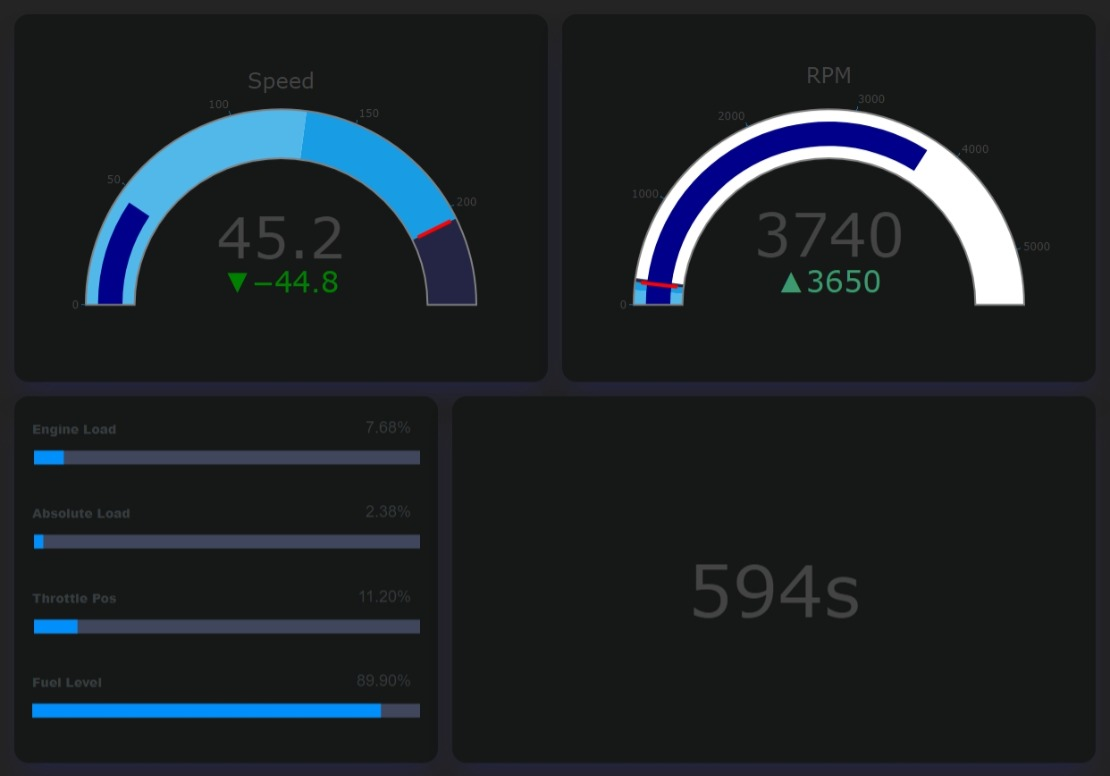
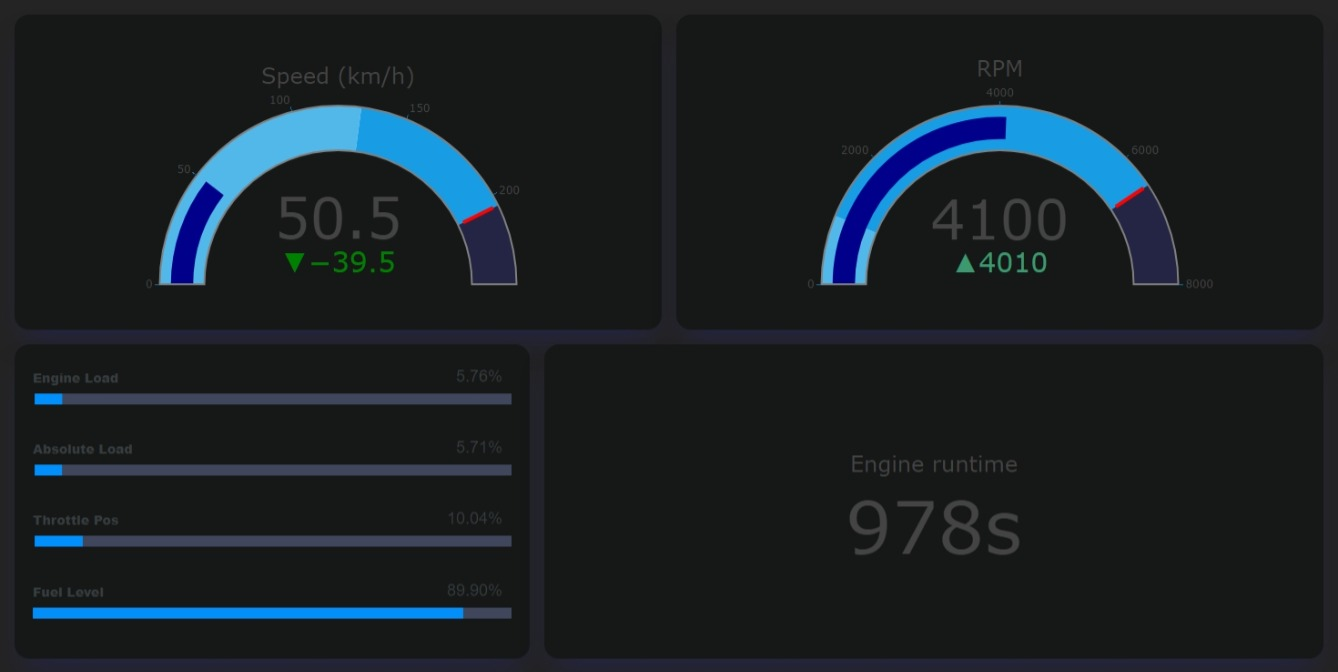
Completed page 3, which displays temperature data. Updated the picture for the readme file and made a few small UI improvements.

diff --git a/app/components/page3.jsx b/app/components/page3.jsx
@@ -5,6 +5,7 @@ import AutoSizer from "react-virtualized-auto-sizer";
 
 import styles from './page3.module.css';
 
+const Plot = dynamic(() => import('react-plotly.js'), { ssr: false });
 const Chart = dynamic(() => import('react-apexcharts'), { ssr: false });
 
 export default function Page3({coolantTemp, intakeTemp, ambientTemp}) {
@@ -70,11 +71,33 @@ export default function Page3({coolantTemp, intakeTemp, ambientTemp}) {
     },
   });
 
-  let coolantTempLineChartLayout = createApexChartLine('Engine Coolant Temperature', coolantTemp);
-  let intakeTempLineChartLayout = createApexChartLine('Intake Air Temp', intakeTemp);
-  let ambientAirTempLineChartLayout = createApexChartLine('Ambient Air Temp', ambientTemp);
+  let coolantTempLineChartLayout = createApexChartLine('Engine Coolant Temperature (°C)', coolantTemp);
+  let intakeTempLineChartLayout = createApexChartLine('Intake Air Temp (°C)', intakeTemp);
+  let ambientAirTempLineChartLayout = createApexChartLine('Ambient Air Temp (°C)', ambientTemp);
 
   let listOfChart = [coolantTempLineChartLayout, intakeTempLineChartLayout, ambientAirTempLineChartLayout];
+
+  const createPlotlyIndicatorData = (data) => ([{
+    type: "indicator",
+    mode: "number",
+    value: data,
+ 
+    number: {font: {size:50}, suffix: "°C" },
+    domain: { x: [0, 1], y: [0, 1] }
+  }]);
+
+  let plotlyChartLayout = (height, width) => ({ 
+    width: width, 
+    height: height,
+    paper_bgcolor:'rgba(0,0,0,0)',
+    plot_bgcolor:'rgba(0,0,0,0)'
+  });
+    
+  let listOfIndicator = [
+    createPlotlyIndicatorData(coolantTemp.slice(-1)[0].y), 
+    createPlotlyIndicatorData(intakeTemp.slice(-1)[0].y), 
+    createPlotlyIndicatorData(ambientTemp.slice(-1)[0].y)
+  ];
 
   return (
     <div className={styles.page}>
@@ -93,6 +116,20 @@ export default function Page3({coolantTemp, intakeTemp, ambientTemp}) {
                 />
               )}
             </AutoSizer>
+          </div> 
+        </div>
+      ))}
+      {listOfIndicator.map((indicatorLayout, index) => (
+        <div key={index} className={styles[`tempDisplay${index+1}`]}>
+          <div className={styles.indicator}>
+            <AutoSizer>
+              {({ height, width }) => (
+                <Plot 
+                  data={indicatorLayout}
+                  config={{ autosizable: true }} 
+                  layout={plotlyChartLayout(height, width)} />
+              )}
+            </AutoSizer>     
           </div> 
         </div>
       ))}

diff --git a/app/components/page1.jsx b/app/components/page1.jsx
@@ -44,20 +44,20 @@ export default function Page1({speed, rpm, engineLoad, absoluteLoad, throttlePos
       title: { text: "RPM", font: { size: 24 }},
       delta: { reference: 90, decreasing: { color: "green" } },
       gauge: {
-        axis: { range: [null, 5500], tickwidth: 1, tickcolor: "#146ca4" },
+        axis: { range: [null, 8000], tickwidth: 1, tickcolor: "#146ca4" },
         bar: { color: "darkblue" },
         bgcolor: "white",
         borderwidth: 2,
         bordercolor: "gray",
         steps: [
-          { range: [0, 130], color: "#52b7e9" },
-          { range: [130, 205], color: "#189de4" },
-          { range: [205, 240], color: "#242444" }
+          { range: [0, 1000], color: "#52b7e9" },
+          { range: [1000, 6500], color: "#189de4" },
+          { range: [6500, 8000], color: "#242444" }
         ],
         threshold: {
           line: { color: "red", width: 4 },
           thickness: 0.75,
-          value: 205
+          value: 6500
         }
       }
     }
@@ -140,14 +140,14 @@ export default function Page1({speed, rpm, engineLoad, absoluteLoad, throttlePos
       <div className={styles.firstContainer}>
         <AutoSizer>
           {({ height, width }) => (
-            <Plot data={speed_Data} config={{ autosizable: true }} layout={plotlyChartLayout(height, width)} />
+            <Plot data={speed_Data} config={{ autosizable: true }} layout={plotlyChartLayout(height + 30, width)} />
           )}
         </AutoSizer>
       </div>
       <div className={styles.secondContainer}>
         <AutoSizer>
           {({ height, width }) => (
-            <Plot data={RPM_Data} config={{ autosizable: true }} layout={plotlyChartLayout(height, width)} />
+            <Plot data={RPM_Data} config={{ autosizable: true }} layout={plotlyChartLayout(height + 30, width)} />
           )}
         </AutoSizer>
       </div>
@@ -208,7 +208,7 @@ export default function Page1({speed, rpm, engineLoad, absoluteLoad, throttlePos
       <div className={styles.FourthContainer}>
         <AutoSizer>
           {({ height, width }) => (
-            <Plot data={runtimeData} config={{ autosizable: true }} layout={plotlyChartLayout(height, width)} />
+            <Plot data={runtimeData} config={{ autosizable: true }} layout={plotlyChartLayout(height + 30, width)} />
           )}
         </AutoSizer>     
       </div>

diff --git a/app/components/page3.module.css b/app/components/page3.module.css
@@ -10,7 +10,7 @@
 }
 
 .lineChartContainer1 {
-  grid-column: 1 / span 6;
+  grid-column: 1 / span 7;
   grid-row: 1 / span 2;
   height: 100%;
   place-self: center stretch;
@@ -20,7 +20,7 @@
 }
 
 .lineChartContainer2 {
-  grid-column: 1 / span 6;
+  grid-column: 1 / span 7;
   grid-row: 3 / span 2;
   height: 100%;
   place-self: center stretch;
@@ -30,7 +30,7 @@
 }
 
 .lineChartContainer3 {
-  grid-column: 1 / span 6;
+  grid-column: 1 / span 7;
   grid-row: 5 / span 2;
   height: 100%;
   place-self: center stretch;
@@ -43,4 +43,40 @@
   height: 100%;
   padding: 1rem;
 }
+
+.tempDisplay1 {
+  grid-column: 8 / span 3;
+  grid-row: 1 / span 2;
+  height: 100%;
+  padding: 1rem;
+  border-radius: 1rem;
+  box-shadow: rgb(36, 36, 68) 0px 20px 30px -10px;
+  background-color: var(--background-color-layer);
+}
+
+.tempDisplay2 {
+  grid-column:  8 / span 3;
+  grid-row: 3 / span 2;
+  height: 100%;
+  padding: 1rem;
+  border-radius: 1rem;
+  box-shadow: rgb(36, 36, 68) 0px 20px 30px -10px;
+  background-color: var(--background-color-layer);
+}
+
+.tempDisplay3 {
+  grid-column: 8 / span 3;
+  grid-row: 5 / span 2;
+  height: 100%;
+  padding: 1rem;
+  border-radius: 1rem;
+  box-shadow: rgb(36, 36, 68) 0px 20px 30px -10px;
+  background-color: var(--background-color-layer);
+}
+
+.indicator {
+  height: 100%;
+  padding: 1rem;
+}
+
 

diff --git a/README.md b/README.md
@@ -10,6 +10,8 @@ Demonstrations, including images and videos, will be added soon. Here are only s
 
 ![Second Page with Dummy Data](./public/DummyDataPage2.jpeg)
 
+![Second Page with Dummy Data](./public/DummyDataPage3.jpeg)
+
 ## Usage 
 
 To get started, you'll need an OBD2 Scanner. I'm using a Bluetooth scanner, specifically this one: ![VEEPEAK OBD](https://a.co/d/1LcwUQD). It's been reliable, but remember to unplug it once you're finished using it.
@@ -37,7 +39,7 @@ If you prefer working with desktop applications (which is the preferred method f
     - **Using Docker**: Run the following command:
 
         ```bash
-        docker-compose up api
+        docker compose up api
         ```
 
     - **Running Locally**: If you don't have Docker installed, you can run the script locally. Start by creating a virtual environment for Python and installing the required dependencies:
